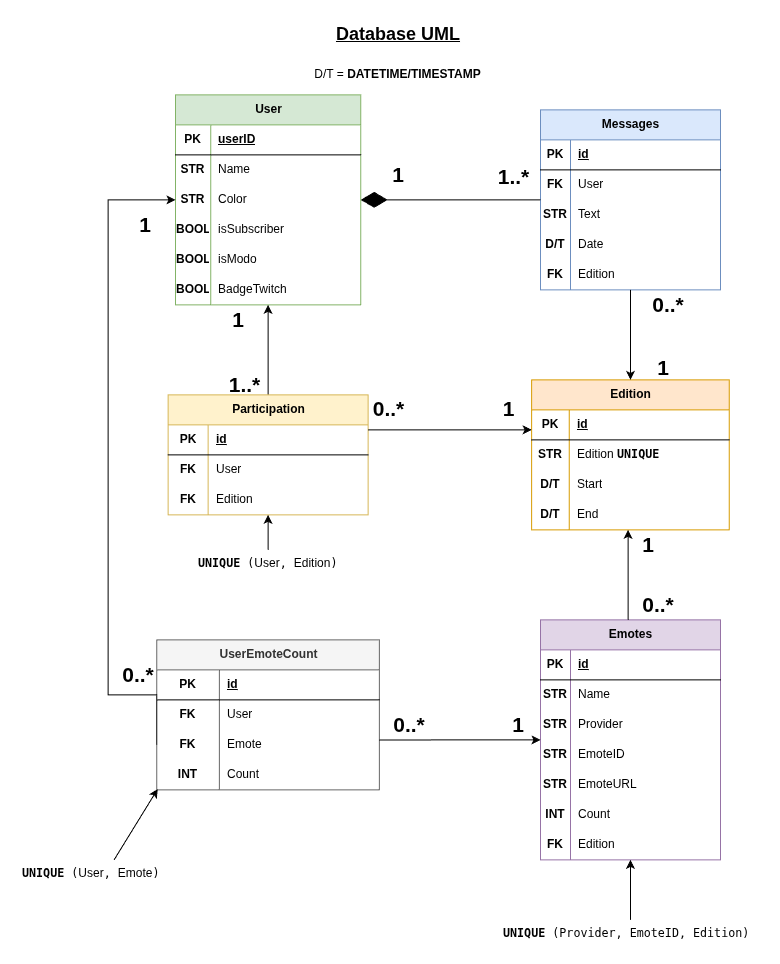
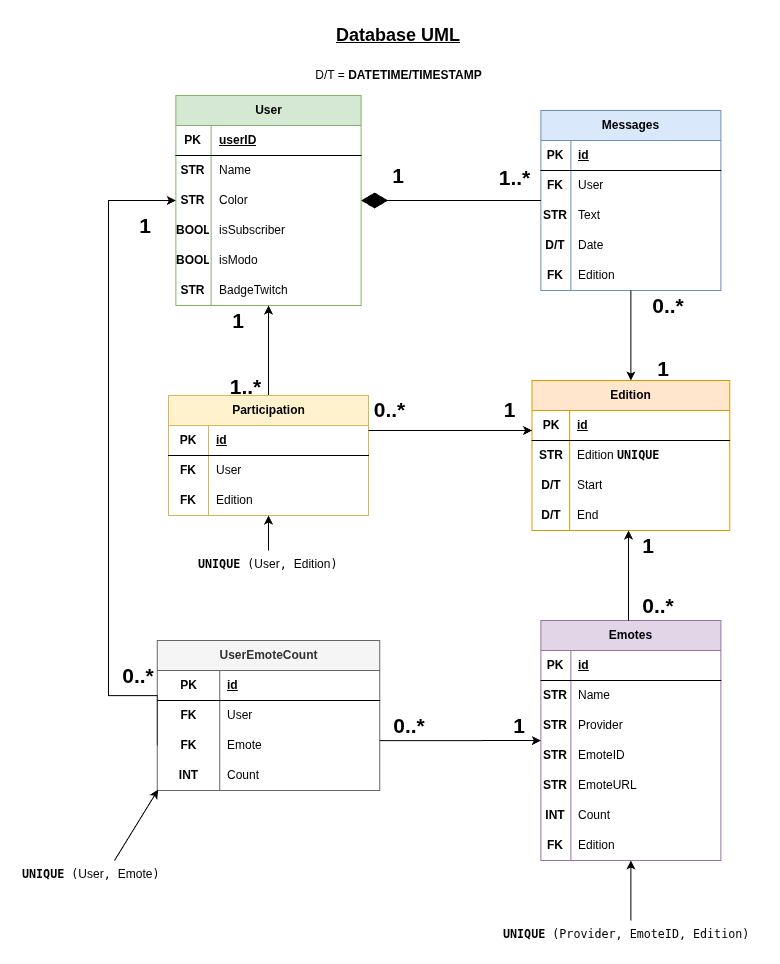
Create db files: Add shared package with SQLModel data models

diff --git a/shared/models/emotes.py b/shared/models/emotes.py
@@ -1,0 +1,17 @@
+from sqlmodel import Field, SQLModel, UniqueConstraint
+
+
+class Emotes(SQLModel, table=True):
+    """An emote available during an edition, from Twitch or a third-party provider."""
+
+    __table_args__ = (
+        UniqueConstraint("provider", "emoteID", "edition", name="emotes"),
+    )
+
+    id:         int | None = Field(default=None, primary_key=True)
+    name:       str
+    provider:   str
+    emoteID:    str
+    emoteURL:   str
+    count:      int
+    edition:    int = Field(foreign_key="edition.id")

diff --git a/shared/models/user_emote_count.py b/shared/models/user_emote_count.py
@@ -1,0 +1,14 @@
+from sqlmodel import Field, SQLModel, UniqueConstraint
+
+
+class UserEmoteCount(SQLModel, table=True):
+    """How many times a user used a given emote."""
+
+    __table_args__ = (
+        UniqueConstraint("user", "emotes", name="user_emote_count"),
+    )
+
+    id:         int | None = Field(default=None, primary_key=True)
+    user:       int = Field(foreign_key="user.userID")
+    emotes:     int = Field(foreign_key="emotes.id")
+    count:      int

diff --git a/shared/models/participation.py b/shared/models/participation.py
@@ -1,0 +1,13 @@
+from sqlmodel import Field, SQLModel, UniqueConstraint
+
+
+class Participation(SQLModel, table=True):
+    """Links a user to an edition they took part in."""
+
+    __table_args__ = (
+        UniqueConstraint("user", "edition", name="participation"),
+    )
+
+    id:         int | None = Field(default=None, primary_key=True)
+    user:       int = Field(foreign_key="user.userID")
+    edition:    int = Field(foreign_key="edition.id")

diff --git a/shared/models/messages.py b/shared/models/messages.py
@@ -1,0 +1,13 @@
+from datetime import datetime
+
+from sqlmodel import Field, SQLModel
+
+
+class Messages(SQLModel, table=True):
+    """A single chat message, stored as raw text exactly as received."""
+
+    id:         int | None = Field(default=None, primary_key=True)
+    user:       int = Field(foreign_key="user.userID")
+    text:       str
+    date:       datetime
+    edition:    int = Field(foreign_key="edition.id")

diff --git a/shared/models/edition.py b/shared/models/edition.py
@@ -1,0 +1,12 @@
+from datetime import datetime
+
+from sqlmodel import Field, SQLModel
+
+
+class Edition(SQLModel, table=True):
+    """One Speedons event edition, delimited by its start and end dates."""
+
+    id:         int | None = Field(default=None, primary_key=True)
+    edition:    str = Field(unique=True)
+    start:      datetime
+    end:        datetime

diff --git a/shared/models/user.py b/shared/models/user.py
@@ -1,0 +1,12 @@
+from sqlmodel import Field, SQLModel
+
+
+class User(SQLModel, table=True):
+    """A Twitch chatter, identified by their stable Twitch user ID."""
+
+    userID:         int = Field(primary_key=True)
+    name:           str
+    color:          str
+    isSubscriber:   bool
+    isModo:         bool
+    badgeTwitch:    str

diff --git a/shared/models/__init__.py b/shared/models/__init__.py
@@ -1,0 +1,6 @@
+from shared.models.edition import Edition
+from shared.models.emotes import Emotes
+from shared.models.messages import Messages
+from shared.models.participation import Participation
+from shared.models.user import User
+from shared.models.user_emote_count import UserEmoteCount

diff --git a/shared/database.py b/shared/database.py
@@ -1,0 +1,10 @@
+from sqlmodel import SQLModel, create_engine
+
+from shared import models  # noqa: F401
+
+sqlite_file_name = "database.db"
+sqlite_url = f"sqlite:///{sqlite_file_name}"
+
+engine = create_engine(sqlite_url, echo=True)
+
+SQLModel.metadata.create_all(engine)
